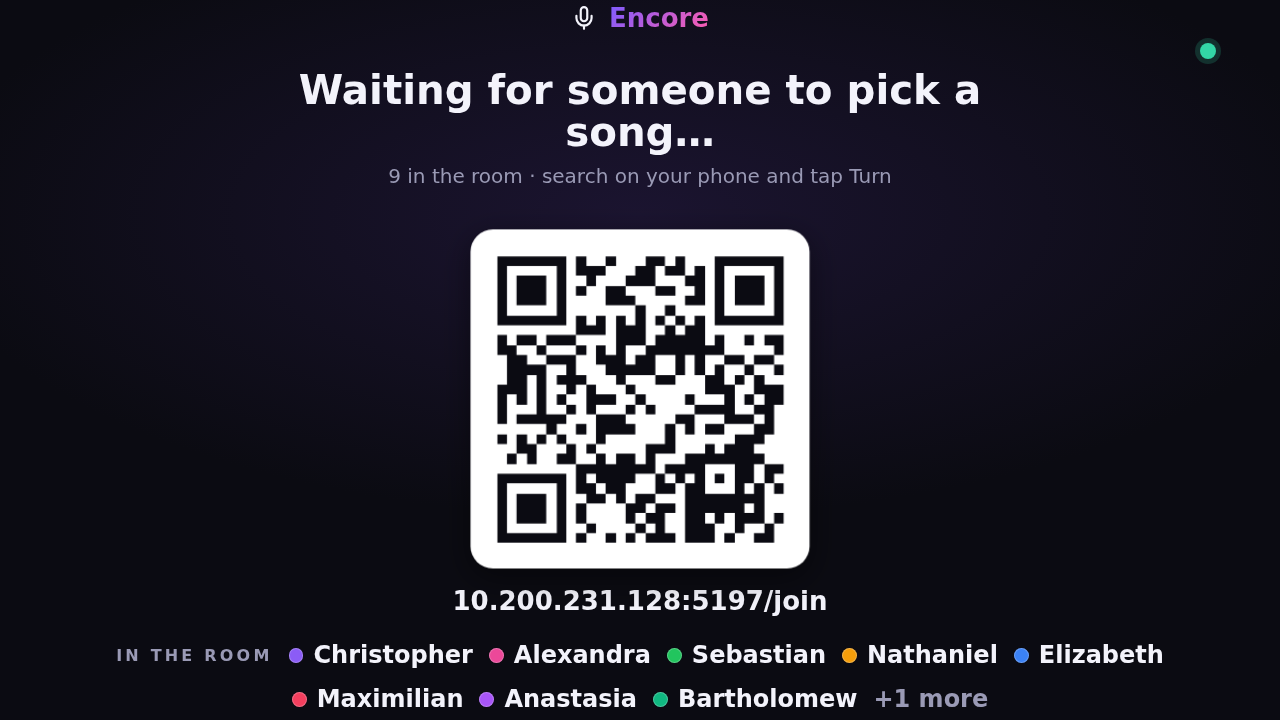
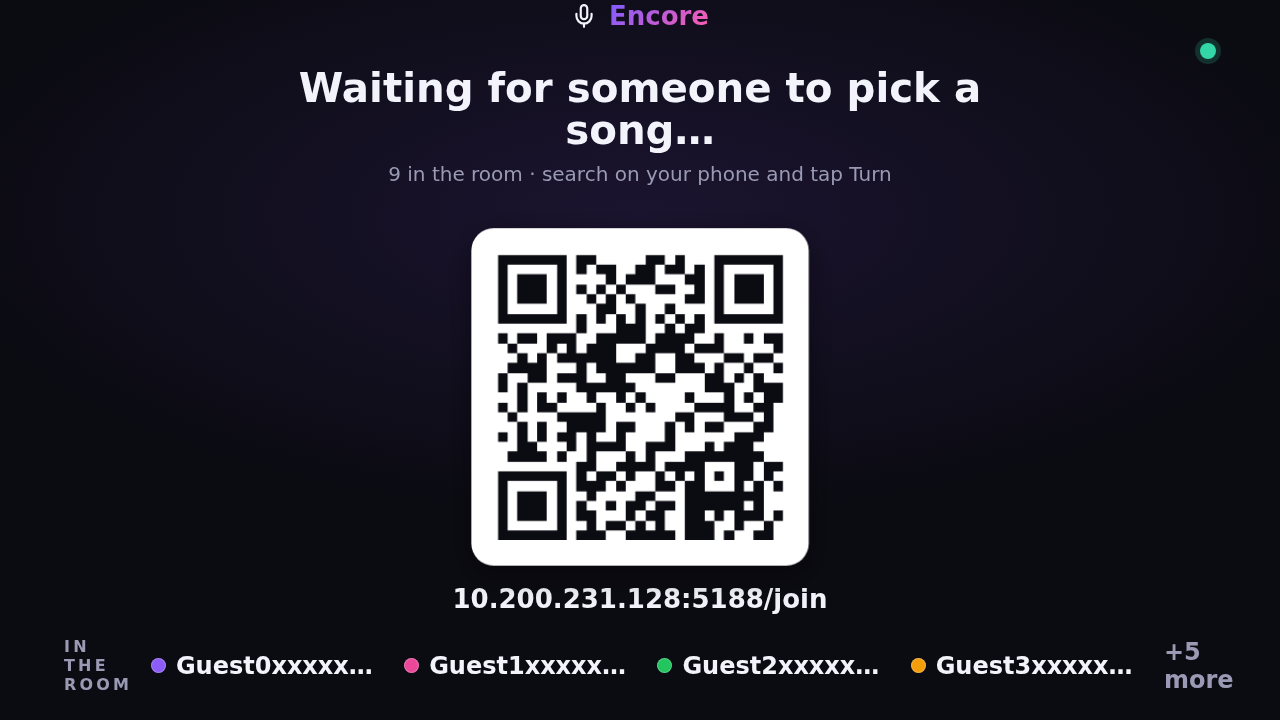
fix(tv): bound the lobby roster by folding surplus into "+N more", not by clipping it (#98)
Addresses the second review-blocking finding. The vh strip cap kept the join
address clear (24/24 measurements 0px), but it bought that with
`overflow: hidden`, which at the reachable production ceiling — lobbyRoster caps
at 8 (screen.ts) and displayName is stored .slice(0,32) (repository.ts), so 8×32-
char names is what production admits — wrapped to ~5 rows and CUT 5 of 8 members
off-screen. The "+N more" chip is emitted after the {#each}, so it was the first
casualty; and the claimed "fade absorbs the surplus" was false — .strip has no
mask, overflow:hidden is a hard cut.

Fix bounds what the strip CONTAINS, not what it may show:
- a display cap (MAX_CHIPS=4) renders at most N names and folds the rest into a
  single "+N more" whose count = hidden names + the presence overflow lobbyRoster
  already reports, so the count stays truthful and "+N more" always survives;
- per-chip `max-width: 16ch` + ellipsis on a new `.name` span (the dot stays,
  flex:none) so one 32-char name cannot blow a row out;
- the strip is a single non-wrapping row (`flex-wrap: nowrap`) with a `max-height`
  vh SAFETY NET and NO `overflow: hidden` — nothing is clipped in practice.

Re-measured, real headless Chromium, elementFromPoint at the address centre, with
32-char names (the ceiling):

  case (32-char names)   | strip clipped | chips cut off-screen | overlap | painted
  -----------------------|---------------|----------------------|---------|--------
[…]

diff --git a/apps/core/src/lib/tv/TvLobby.svelte b/apps/core/src/lib/tv/TvLobby.svelte
@@ -39,6 +39,25 @@
 	let { qrDataUrl, joinUrl, roster, overflow = 0, pendingCount = 0, unreachable = false }: Props = $props();
 
 	const count = $derived(roster.length + overflow);
+
+	/*
+	 * DISPLAY CAP — bound what the strip has to CONTAIN, not clip what it shows (#98).
+	 *
+	 * The strip sits in the .lobby column below the fixed-height stack; its own height reserves the band
+	 * above it, but if it grows tall the region left for the stack shrinks and the join address spills
+	 * back into it. `lobbyRoster` already caps the roster at 8, but 8 names at the 32-char ceiling the
+	 * join path allows (repository.ts) wrap to ~5 rows on a 720p panel — far taller than the band can be
+	 * without eating the stack. So we render at most MAX_CHIPS names here and FOLD the rest into the
+	 * "+N more" chip, before layout, so the strip is at most two rows at any name length and NOTHING is
+	 * clipped off-screen — the count stays truthful and the overflow chip always survives (it was the
+	 * first casualty of a raw `overflow: hidden`). MAX_CHIPS = 4, combined with a per-chip
+	 * max-width + ellipsis (a 32-char name is unreadable on a wall anyway), keeps even the widest room to
+	 * two rows so the band stays short.
+	 */
+	const MAX_CHIPS = 4;
+	const shownRoster = $derived(roster.slice(0, MAX_CHIPS));
+	// Everyone not shown: the names we folded here PLUS the presence overflow lobbyRoster already counted.
+	const hiddenCount = $derived(Math.max(0, roster.length - MAX_CHIPS) + overflow);
 	/* Scheme-less, matching attract: nobody types "http://" off a wall. The QR carries the full URL. */
 	const joinShort = $derived(joinUrl.replace(/^https?:\/\//, ''));
 	/** Somebody has picked, it just is not singable yet. Different situation, different words. */
@@ -106,7 +125,7 @@
 	{#if roster.length > 0}
 		<div class="strip">
 			<span class="label">In the room</span>
-			{#each roster as member (member.id)}
+			{#each shownRoster as member (member.id)}
 				<!--
 				  An away singer is GREYED, not removed. Before this the roster was pure socket count, so a
 				  locked phone erased its owner from the screen — the one place a guest confirms the room
@@ -114,12 +133,12 @@
 				  a legible signal across a room, and it is invisible to anyone reading the name aloud.
 				-->
 				<span class="person" class:away={member.state === 'away'}>
-					<span class="swatch" style="--singer: {member.color}"></span>{member.displayName}
+					<span class="swatch" style="--singer: {member.color}"></span><span class="name">{member.displayName}</span>
 					{#if member.state === 'away'}<span class="tag">away</span>{/if}
 				</span>
 			{/each}
-			{#if overflow > 0}
-				<span class="person more">+{overflow} more</span>
+			{#if hiddenCount > 0}
+				<span class="person more">+{hiddenCount} more</span>
 			{/if}
 		</div>
 	{/if}
@@ -238,22 +257,14 @@
 		align-items: center;
 		justify-content: center;
 		gap: 16px;
-		flex-wrap: wrap;
+		flex-wrap: nowrap;
 		/*
-		 * CAP the band. The stack above is a fixed height (its margins are vh-based, ~614px at 720p) and
-		 * the region it centres in is whatever the strip leaves; on a short panel 8 long names wrap to
-		 * three rows (~208px, 29% of a 720p screen) and the region drops below the stack's height, so the
-		 * stack — whose last child is the join address — overflows back down into the strip (the #98
-		 * symptom). Bounding the strip keeps the region tall enough for the stack at every roster size.
-		 * Surplus rows fold below the same fade that already dims the band, exactly as the lyrics reel caps
-		 * itself and lets its edge mask absorb the overflow rows (app.css). The label and the "+N more"
-		 * chip lead the flow, so the row that stays visible is the one that answers "am I in, and how many
-		 * are here". Sized in vh so it tracks the panel: 14vh is ~101px at 720p (bounds the band to keep the stack
-		 * clear) and ~151px at 1080p, where the strip already sits comfortably under it and nothing is
-		 * clipped.
+		 * The display cap (MAX_CHIPS in the script) already keeps this to at most two rows at any name
+		 * length, so this max-height is a SAFETY NET, not the mechanism — and there is deliberately no
+		 * `overflow: hidden`: with the roster bounded before layout nothing needs clipping, and a hard clip
+		 * is what silently ate roster members (and the "+N more" chip) at the 32-char ceiling.
 		 */
-		max-height: 14vh;
-		overflow: hidden;
+		max-height: 20vh;
 	}
 	.label {
 		font-size: var(--tv-eyebrow);
@@ -277,6 +288,21 @@
 		gap: 0.42em;
 		font-size: var(--tv-body);
 		font-weight: 700;
+		/*
+		 * Bound the chip WIDTH so one very long name (the join path admits up to 32 chars) cannot blow a
+		 * row out and, combined with the MAX_CHIPS count cap, force the strip to a height that eats the
+		 * stack above (#98). A name past this is clipped with an ellipsis on the NAME only — the dot (the
+		 * singer's identity) is flex:none and always shows. A 32-char name is not readable across a room
+		 * regardless, so truncating the tail loses nothing a guest could use.
+		 */
+		max-width: 16ch;
+		min-width: 0;
+	}
+	.person .name {
+		overflow: hidden;
+		text-overflow: ellipsis;
+		white-space: nowrap;
+		min-width: 0;
 	}
 	.person.more {
 		color: var(--ink-dim);

diff --git a/apps/core/src/lib/tv/stage-scale.test.ts b/apps/core/src/lib/tv/stage-scale.test.ts
@@ -418,12 +418,32 @@ test('#98 the lobby roster strip reserves its band in flow — it is not absolut
 	// address. In flow it cannot overlap the stack, so it must be neither.
 	expect(/position:\s*absolute/.test(stripBlock)).toBe(false);
 	expect(/bottom:\s*0/.test(stripBlock)).toBe(false);
-	// AND it must be CAPPED: in flow but unbounded, the strip grows tall enough (8 long names -> three
-	// rows) to shrink the region below the fixed-height stack, which then overflows the address back into
-	// the band. A vh-keyed max-height bounds it so the region always clears the stack; dropping the cap
-	// reintroduces the overlap at 720p.
+	// AND its height must be BOUNDED without clipping the roster. Free to wrap, the strip grows tall
+	// enough (8 long names) to shrink the region below the fixed-height stack and push the address back
+	// into it. It is kept to one row (nowrap) with a vh max-height safety net; the roster is bounded by a
+	// DISPLAY CAP in the script, not by clipping the band (next test), so there is deliberately NO
+	// `overflow: hidden` here — that hard cut is what silently ate roster members and the "+N more" chip.
+	expect(/flex-wrap:\s*nowrap/.test(stripBlock)).toBe(true);
 	expect(/max-height:\s*[0-9.]+vh/.test(stripBlock)).toBe(true);
-	expect(/overflow:\s*hidden/.test(stripBlock)).toBe(true);
+	expect(/overflow:\s*hidden/.test(stripBlock)).toBe(false);
+});
+
+test('#98 the roster is bounded by folding surplus into "+N more", never by clipping chips off-screen', () => {
+	const src = TV_LOBBY;
+	const lobby = stripComments(src);
+	// A display cap in the script limits how many chips render; the count folds the rest — the names we
+	// hide PLUS the presence overflow lobbyRoster already reports — into one "+N more".
+	expect(/const\s+MAX_CHIPS\s*=\s*\d+/.test(lobby)).toBe(true);
+	// The each-loop must iterate the CAPPED list, not the full roster, or the cap does nothing.
+	expect(/\{#each\s+shownRoster\s+as/.test(src)).toBe(true);
+	// hiddenCount must add BOTH the folded names and the upstream overflow, so the count stays truthful.
+	expect(/roster\.length\s*-\s*MAX_CHIPS[\s\S]*?\+\s*overflow/.test(lobby)).toBe(true);
+	expect(/\+\{hiddenCount\}\s*more/.test(src)).toBe(true);
+	// A single long name must not blow the one row out: the chip name is width-bounded and ellipsised.
+	const nameBlock = /\.person\s+\.name\s*\{([^}]*)\}/.exec(lobby)?.[1] ?? '';
+	expect(/text-overflow:\s*ellipsis/.test(nameBlock)).toBe(true);
+	const personBlock = /\.person\s*\{([^}]*)\}/.exec(lobby)?.[1] ?? '';
+	expect(/max-width:\s*[0-9.]+ch/.test(personBlock)).toBe(true);
 });
 
 test('#98 the lobby centres its stack in the space ABOVE the strip, not across the whole box', () => {
